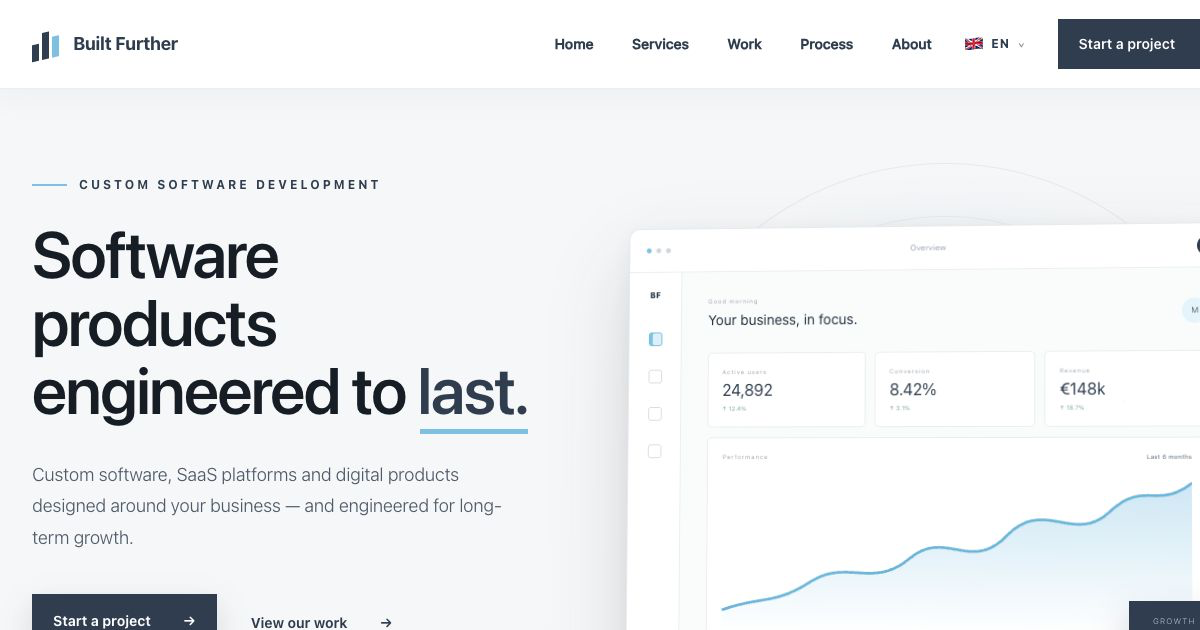
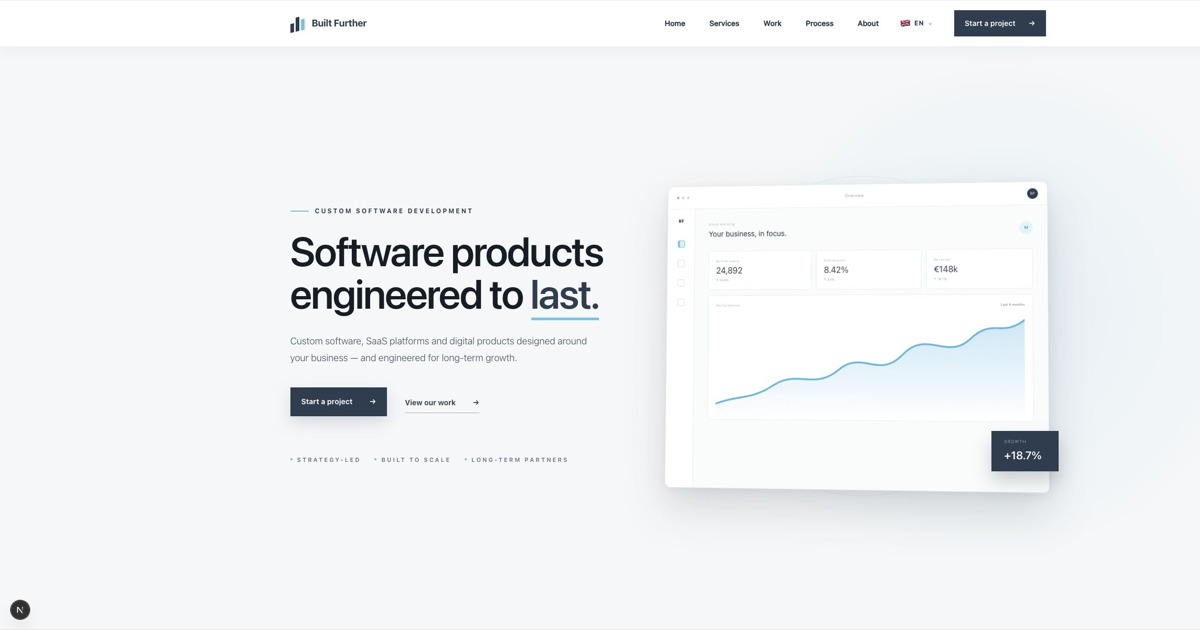
Fix metadata

diff --git a/src/proxy.ts b/src/proxy.ts
@@ -9,7 +9,12 @@ export function proxy(request: NextRequest) {
     const saved = request.cookies.get(localeCookie)?.value;
     const locale = saved && hasLocale(saved) ? saved : defaultLocale;
     const url = request.nextUrl.clone();
-    url.pathname = `/${locale}${pathname === "/" ? "" : pathname}`;
+    if (pathname === "/") {
+        url.pathname = `/${locale}`;
+        return NextResponse.rewrite(url);
+    }
+
+    url.pathname = `/${locale}${pathname}`;
     return NextResponse.redirect(url);
 }
 
